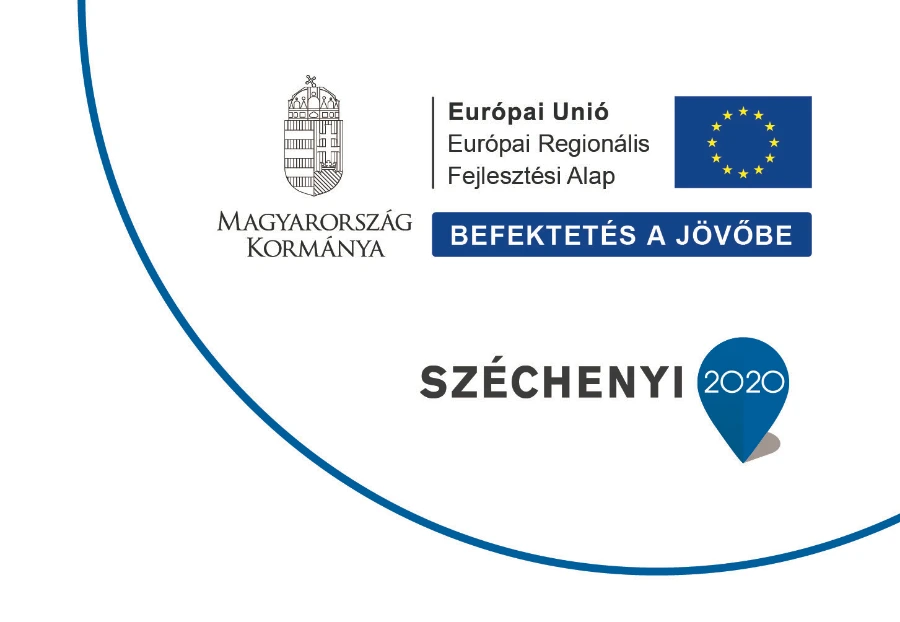
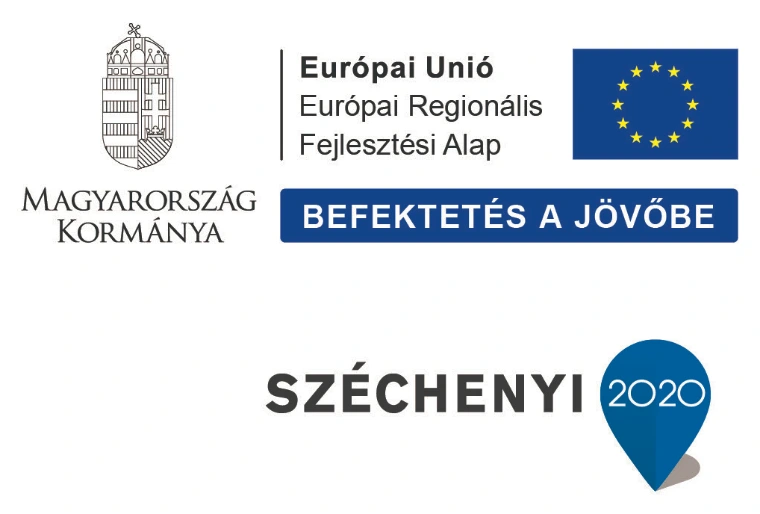
Infoblokk as a tidy floating card in the bottom-right corner
Claude-Session: https://claude.ai/code/session_01MeGg95uxiwWUdf7VC95FE9

diff --git a/public/en/index.html b/public/en/index.html
@@ -23,7 +23,7 @@
   <link rel="preconnect" href="https://fonts.googleapis.com">
   <link rel="preconnect" href="https://fonts.gstatic.com" crossorigin>
   <link rel="stylesheet" href="https://fonts.googleapis.com/css2?family=Archivo:wdth,wght@100..125,500..800&family=IBM+Plex+Mono:wght@400;500&family=IBM+Plex+Sans:ital,wght@0,400;0,500;0,600;1,400&display=swap">
-  <link rel="stylesheet" href="../assets/css/site.css?v=e84bad13">
+  <link rel="stylesheet" href="../assets/css/site.css?v=87c1deae">
   <script>document.documentElement.classList.replace('no-js', 'js');</script>
   <script>
   /* New page → start at the top (keeps #anchor links and Back/Forward position) */
@@ -665,7 +665,7 @@
   </section>
 
 <a class="infoblokk infoblokk--float" href="projects.html#szechenyi">
-  <img src="../assets/img/infoblokk-szechenyi2020.webp" width="900" height="622" alt="Széchenyi 2020 – Government of Hungary, European Union, European Regional Development Fund. Investing in your future." fetchpriority="high">
+  <img src="../assets/img/infoblokk-szechenyi2020.webp" width="760" height="514" alt="Széchenyi 2020 – Government of Hungary, European Union, European Regional Development Fund. Investing in your future." fetchpriority="high">
 </a>
   <footer class="footer">
     <div class="wrap footer__grid">
@@ -737,7 +737,7 @@
 
   <script src="../assets/vendor/three.min.js" defer></script>
   <script src="../assets/vendor/three-post.js" defer></script>
-  <script src="../assets/js/part3d.js?v=e84bad13" defer></script>
-  <script src="../assets/js/site.js?v=e84bad13" defer></script>
+  <script src="../assets/js/part3d.js?v=87c1deae" defer></script>
+  <script src="../assets/js/site.js?v=87c1deae" defer></script>
 </body>
 </html>

diff --git a/public/index.html b/public/index.html
@@ -23,7 +23,7 @@
   <link rel="preconnect" href="https://fonts.googleapis.com">
   <link rel="preconnect" href="https://fonts.gstatic.com" crossorigin>
   <link rel="stylesheet" href="https://fonts.googleapis.com/css2?family=Archivo:wdth,wght@100..125,500..800&family=IBM+Plex+Mono:wght@400;500&family=IBM+Plex+Sans:ital,wght@0,400;0,500;0,600;1,400&display=swap">
-  <link rel="stylesheet" href="assets/css/site.css?v=e84bad13">
+  <link rel="stylesheet" href="assets/css/site.css?v=87c1deae">
   <script>document.documentElement.classList.replace('no-js', 'js');</script>
   <script>
   /* New page → start at the top (keeps #anchor links and Back/Forward position) */
@@ -665,7 +665,7 @@
   </section>
 
 <a class="infoblokk infoblokk--float" href="projektek.html#szechenyi">
-  <img src="assets/img/infoblokk-szechenyi2020.webp" width="900" height="622" alt="Széchenyi 2020 – Magyarország Kormánya, Európai Unió, Európai Regionális Fejlesztési Alap. Befektetés a jövőbe." fetchpriority="high">
+  <img src="assets/img/infoblokk-szechenyi2020.webp" width="760" height="514" alt="Széchenyi 2020 – Magyarország Kormánya, Európai Unió, Európai Regionális Fejlesztési Alap. Befektetés a jövőbe." fetchpriority="high">
 </a>
   <footer class="footer">
     <div class="wrap footer__grid">
@@ -737,7 +737,7 @@
 
   <script src="assets/vendor/three.min.js" defer></script>
   <script src="assets/vendor/three-post.js" defer></script>
-  <script src="assets/js/part3d.js?v=e84bad13" defer></script>
-  <script src="assets/js/site.js?v=e84bad13" defer></script>
+  <script src="assets/js/part3d.js?v=87c1deae" defer></script>
+  <script src="assets/js/site.js?v=87c1deae" defer></script>
 </body>
 </html>

diff --git a/public/en/projects.html b/public/en/projects.html
@@ -23,7 +23,7 @@
   <link rel="preconnect" href="https://fonts.googleapis.com">
   <link rel="preconnect" href="https://fonts.gstatic.com" crossorigin>
   <link rel="stylesheet" href="https://fonts.googleapis.com/css2?family=Archivo:wdth,wght@100..125,500..800&family=IBM+Plex+Mono:wght@400;500&family=IBM+Plex+Sans:ital,wght@0,400;0,500;0,600;1,400&display=swap">
-  <link rel="stylesheet" href="../assets/css/site.css?v=e84bad13">
+  <link rel="stylesheet" href="../assets/css/site.css?v=87c1deae">
   <script>document.documentElement.classList.replace('no-js', 'js');</script>
   <script>
   /* New page → start at the top (keeps #anchor links and Back/Forward position) */
@@ -297,7 +297,7 @@
       </dl>
     </div>
 <a class="infoblokk" href="projects.html#szechenyi">
-  <img src="../assets/img/infoblokk-szechenyi2020.webp" width="900" height="622" alt="Széchenyi 2020 – Government of Hungary, European Union, European Regional Development Fund. Investing in your future." loading="lazy">
+  <img src="../assets/img/infoblokk-szechenyi2020.webp" width="760" height="514" alt="Széchenyi 2020 – Government of Hungary, European Union, European Regional Development Fund. Investing in your future." loading="lazy">
 </a>  </div>
 </section>
 
@@ -388,7 +388,7 @@
 
   <script src="../assets/vendor/three.min.js" defer></script>
   <script src="../assets/vendor/three-post.js" defer></script>
-  <script src="../assets/js/part3d.js?v=e84bad13" defer></script>
-  <script src="../assets/js/site.js?v=e84bad13" defer></script>
+  <script src="../assets/js/part3d.js?v=87c1deae" defer></script>
+  <script src="../assets/js/site.js?v=87c1deae" defer></script>
 </body>
 </html>

diff --git a/public/projektek.html b/public/projektek.html
@@ -23,7 +23,7 @@
   <link rel="preconnect" href="https://fonts.googleapis.com">
   <link rel="preconnect" href="https://fonts.gstatic.com" crossorigin>
   <link rel="stylesheet" href="https://fonts.googleapis.com/css2?family=Archivo:wdth,wght@100..125,500..800&family=IBM+Plex+Mono:wght@400;500&family=IBM+Plex+Sans:ital,wght@0,400;0,500;0,600;1,400&display=swap">
-  <link rel="stylesheet" href="assets/css/site.css?v=e84bad13">
+  <link rel="stylesheet" href="assets/css/site.css?v=87c1deae">
   <script>document.documentElement.classList.replace('no-js', 'js');</script>
   <script>
   /* New page → start at the top (keeps #anchor links and Back/Forward position) */
@@ -297,7 +297,7 @@
       </dl>
     </div>
 <a class="infoblokk" href="projektek.html#szechenyi">
-  <img src="assets/img/infoblokk-szechenyi2020.webp" width="900" height="622" alt="Széchenyi 2020 – Magyarország Kormánya, Európai Unió, Európai Regionális Fejlesztési Alap. Befektetés a jövőbe." loading="lazy">
+  <img src="assets/img/infoblokk-szechenyi2020.webp" width="760" height="514" alt="Széchenyi 2020 – Magyarország Kormánya, Európai Unió, Európai Regionális Fejlesztési Alap. Befektetés a jövőbe." loading="lazy">
 </a>  </div>
 </section>
 
@@ -388,7 +388,7 @@
 
   <script src="assets/vendor/three.min.js" defer></script>
   <script src="assets/vendor/three-post.js" defer></script>
-  <script src="assets/js/part3d.js?v=e84bad13" defer></script>
-  <script src="assets/js/site.js?v=e84bad13" defer></script>
+  <script src="assets/js/part3d.js?v=87c1deae" defer></script>
+  <script src="assets/js/site.js?v=87c1deae" defer></script>
 </body>
 </html>

diff --git a/public/assets/css/site.css b/public/assets/css/site.css
@@ -1408,7 +1408,10 @@ a:hover .photo img, .photo:hover img { transform: scale(calc(var(--zoom, 1) * 1.
 /* v19: official Széchenyi 2020 infoblokk */
 .infoblokk { display: block; line-height: 0; }
 .infoblokk img { display: block; width: 100%; height: auto; }
+.grant .infoblokk { padding: 16px; background: #fff; }
 .grant .infoblokk { width: min(420px, 100%); border-radius: 6px; overflow: hidden; box-shadow: 0 16px 40px rgba(15,20,25,.12); }
-/* home: fixed in the bottom-right corner, visible without scrolling on every device */
-.infoblokk--float { position: fixed; right: 0; bottom: 0; z-index: 140; width: clamp(170px, 22vw, 320px); background: #fff; box-shadow: -6px -6px 30px rgba(0,0,0,.18); border-top-left-radius: 4px; }
+/* home: floating card in the bottom-right corner, visible without scrolling */
+.infoblokk--float { position: fixed; right: clamp(12px, 1.6vw, 24px); bottom: calc(clamp(12px, 1.6vw, 24px) + env(safe-area-inset-bottom, 0px)); z-index: 140; width: clamp(168px, 17vw, 250px); padding: clamp(8px, .8vw, 12px); background: #fff; border-radius: 12px; box-shadow: 0 18px 44px rgba(10,13,16,.28), 0 2px 6px rgba(10,13,16,.12); outline: 1px solid rgba(15,20,25,.06); transition: transform .35s var(--ease), box-shadow .35s var(--ease); animation: fadeUp .7s .4s var(--ease) both; }
+.infoblokk--float img { border-radius: 4px; }
+.infoblokk--float:hover { transform: translateY(-3px); box-shadow: 0 24px 56px rgba(10,13,16,.34), 0 2px 6px rgba(10,13,16,.12); }
 .page-home .fab { right: auto; left: 16px; }

diff --git a/src/assets/css/site.css b/src/assets/css/site.css
@@ -1408,7 +1408,10 @@ a:hover .photo img, .photo:hover img { transform: scale(calc(var(--zoom, 1) * 1.
 /* v19: official Széchenyi 2020 infoblokk */
 .infoblokk { display: block; line-height: 0; }
 .infoblokk img { display: block; width: 100%; height: auto; }
+.grant .infoblokk { padding: 16px; background: #fff; }
 .grant .infoblokk { width: min(420px, 100%); border-radius: 6px; overflow: hidden; box-shadow: 0 16px 40px rgba(15,20,25,.12); }
-/* home: fixed in the bottom-right corner, visible without scrolling on every device */
-.infoblokk--float { position: fixed; right: 0; bottom: 0; z-index: 140; width: clamp(170px, 22vw, 320px); background: #fff; box-shadow: -6px -6px 30px rgba(0,0,0,.18); border-top-left-radius: 4px; }
+/* home: floating card in the bottom-right corner, visible without scrolling */
+.infoblokk--float { position: fixed; right: clamp(12px, 1.6vw, 24px); bottom: calc(clamp(12px, 1.6vw, 24px) + env(safe-area-inset-bottom, 0px)); z-index: 140; width: clamp(168px, 17vw, 250px); padding: clamp(8px, .8vw, 12px); background: #fff; border-radius: 12px; box-shadow: 0 18px 44px rgba(10,13,16,.28), 0 2px 6px rgba(10,13,16,.12); outline: 1px solid rgba(15,20,25,.06); transition: transform .35s var(--ease), box-shadow .35s var(--ease); animation: fadeUp .7s .4s var(--ease) both; }
+.infoblokk--float img { border-radius: 4px; }
+.infoblokk--float:hover { transform: translateY(-3px); box-shadow: 0 24px 56px rgba(10,13,16,.34), 0 2px 6px rgba(10,13,16,.12); }
 .page-home .fab { right: auto; left: 16px; }

diff --git a/public/en/404.html b/public/en/404.html
@@ -23,7 +23,7 @@
   <link rel="preconnect" href="https://fonts.googleapis.com">
   <link rel="preconnect" href="https://fonts.gstatic.com" crossorigin>
   <link rel="stylesheet" href="https://fonts.googleapis.com/css2?family=Archivo:wdth,wght@100..125,500..800&family=IBM+Plex+Mono:wght@400;500&family=IBM+Plex+Sans:ital,wght@0,400;0,500;0,600;1,400&display=swap">
-  <link rel="stylesheet" href="../assets/css/site.css?v=e84bad13">
+  <link rel="stylesheet" href="../assets/css/site.css?v=87c1deae">
   <script>document.documentElement.classList.replace('no-js', 'js');</script>
   <script>
   /* New page → start at the top (keeps #anchor links and Back/Forward position) */
@@ -191,7 +191,7 @@
 
   <script src="../assets/vendor/three.min.js" defer></script>
   <script src="../assets/vendor/three-post.js" defer></script>
-  <script src="../assets/js/part3d.js?v=e84bad13" defer></script>
-  <script src="../assets/js/site.js?v=e84bad13" defer></script>
+  <script src="../assets/js/part3d.js?v=87c1deae" defer></script>
+  <script src="../assets/js/site.js?v=87c1deae" defer></script>
 </body>
 </html>

diff --git a/public/en/about.html b/public/en/about.html
@@ -23,7 +23,7 @@
   <link rel="preconnect" href="https://fonts.googleapis.com">
   <link rel="preconnect" href="https://fonts.gstatic.com" crossorigin>
   <link rel="stylesheet" href="https://fonts.googleapis.com/css2?family=Archivo:wdth,wght@100..125,500..800&family=IBM+Plex+Mono:wght@400;500&family=IBM+Plex+Sans:ital,wght@0,400;0,500;0,600;1,400&display=swap">
-  <link rel="stylesheet" href="../assets/css/site.css?v=e84bad13">
+  <link rel="stylesheet" href="../assets/css/site.css?v=87c1deae">
   <script>document.documentElement.classList.replace('no-js', 'js');</script>
   <script>
   /* New page → start at the top (keeps #anchor links and Back/Forward position) */
@@ -302,7 +302,7 @@
 
   <script src="../assets/vendor/three.min.js" defer></script>
   <script src="../assets/vendor/three-post.js" defer></script>
-  <script src="../assets/js/part3d.js?v=e84bad13" defer></script>
-  <script src="../assets/js/site.js?v=e84bad13" defer></script>
+  <script src="../assets/js/part3d.js?v=87c1deae" defer></script>
+  <script src="../assets/js/site.js?v=87c1deae" defer></script>
 </body>
 </html>

diff --git a/public/en/capabilities.html b/public/en/capabilities.html
@@ -23,7 +23,7 @@
   <link rel="preconnect" href="https://fonts.googleapis.com">
   <link rel="preconnect" href="https://fonts.gstatic.com" crossorigin>
   <link rel="stylesheet" href="https://fonts.googleapis.com/css2?family=Archivo:wdth,wght@100..125,500..800&family=IBM+Plex+Mono:wght@400;500&family=IBM+Plex+Sans:ital,wght@0,400;0,500;0,600;1,400&display=swap">
-  <link rel="stylesheet" href="../assets/css/site.css?v=e84bad13">
+  <link rel="stylesheet" href="../assets/css/site.css?v=87c1deae">
   <script>document.documentElement.classList.replace('no-js', 'js');</script>
   <script>
   /* New page → start at the top (keeps #anchor links and Back/Forward position) */
@@ -570,7 +570,7 @@
 
   <script src="../assets/vendor/three.min.js" defer></script>
   <script src="../assets/vendor/three-post.js" defer></script>
-  <script src="../assets/js/part3d.js?v=e84bad13" defer></script>
-  <script src="../assets/js/site.js?v=e84bad13" defer></script>
+  <script src="../assets/js/part3d.js?v=87c1deae" defer></script>
+  <script src="../assets/js/site.js?v=87c1deae" defer></script>
 </body>
 </html>

diff --git a/public/en/careers.html b/public/en/careers.html
@@ -23,7 +23,7 @@
   <link rel="preconnect" href="https://fonts.googleapis.com">
   <link rel="preconnect" href="https://fonts.gstatic.com" crossorigin>
   <link rel="stylesheet" href="https://fonts.googleapis.com/css2?family=Archivo:wdth,wght@100..125,500..800&family=IBM+Plex+Mono:wght@400;500&family=IBM+Plex+Sans:ital,wght@0,400;0,500;0,600;1,400&display=swap">
-  <link rel="stylesheet" href="../assets/css/site.css?v=e84bad13">
+  <link rel="stylesheet" href="../assets/css/site.css?v=87c1deae">
   <script>document.documentElement.classList.replace('no-js', 'js');</script>
   <script>
   /* New page → start at the top (keeps #anchor links and Back/Forward position) */
@@ -272,7 +272,7 @@
 
   <script src="../assets/vendor/three.min.js" defer></script>
   <script src="../assets/vendor/three-post.js" defer></script>
-  <script src="../assets/js/part3d.js?v=e84bad13" defer></script>
-  <script src="../assets/js/site.js?v=e84bad13" defer></script>
+  <script src="../assets/js/part3d.js?v=87c1deae" defer></script>
+  <script src="../assets/js/site.js?v=87c1deae" defer></script>
 </body>
 </html>

diff --git a/public/en/contact.html b/public/en/contact.html
@@ -23,7 +23,7 @@
   <link rel="preconnect" href="https://fonts.googleapis.com">
   <link rel="preconnect" href="https://fonts.gstatic.com" crossorigin>
   <link rel="stylesheet" href="https://fonts.googleapis.com/css2?family=Archivo:wdth,wght@100..125,500..800&family=IBM+Plex+Mono:wght@400;500&family=IBM+Plex+Sans:ital,wght@0,400;0,500;0,600;1,400&display=swap">
-  <link rel="stylesheet" href="../assets/css/site.css?v=e84bad13">
+  <link rel="stylesheet" href="../assets/css/site.css?v=87c1deae">
   <script>document.documentElement.classList.replace('no-js', 'js');</script>
   <script>
   /* New page → start at the top (keeps #anchor links and Back/Forward position) */
@@ -408,7 +408,7 @@
 
   <script src="../assets/vendor/three.min.js" defer></script>
   <script src="../assets/vendor/three-post.js" defer></script>
-  <script src="../assets/js/part3d.js?v=e84bad13" defer></script>
-  <script src="../assets/js/site.js?v=e84bad13" defer></script>
+  <script src="../assets/js/part3d.js?v=87c1deae" defer></script>
+  <script src="../assets/js/site.js?v=87c1deae" defer></script>
 </body>
 </html>

diff --git a/public/en/helicopter.html b/public/en/helicopter.html
@@ -23,7 +23,7 @@
   <link rel="preconnect" href="https://fonts.googleapis.com">
   <link rel="preconnect" href="https://fonts.gstatic.com" crossorigin>
   <link rel="stylesheet" href="https://fonts.googleapis.com/css2?family=Archivo:wdth,wght@100..125,500..800&family=IBM+Plex+Mono:wght@400;500&family=IBM+Plex+Sans:ital,wght@0,400;0,500;0,600;1,400&display=swap">
-  <link rel="stylesheet" href="../assets/css/site.css?v=e84bad13">
+  <link rel="stylesheet" href="../assets/css/site.css?v=87c1deae">
   <script>document.documentElement.classList.replace('no-js', 'js');</script>
   <script>
   /* New page → start at the top (keeps #anchor links and Back/Forward position) */
@@ -223,7 +223,7 @@
 
   <script src="../assets/vendor/three.min.js" defer></script>
   <script src="../assets/vendor/three-post.js" defer></script>
-  <script src="../assets/js/part3d.js?v=e84bad13" defer></script>
-  <script src="../assets/js/site.js?v=e84bad13" defer></script>
+  <script src="../assets/js/part3d.js?v=87c1deae" defer></script>
+  <script src="../assets/js/site.js?v=87c1deae" defer></script>
 </body>
 </html>
